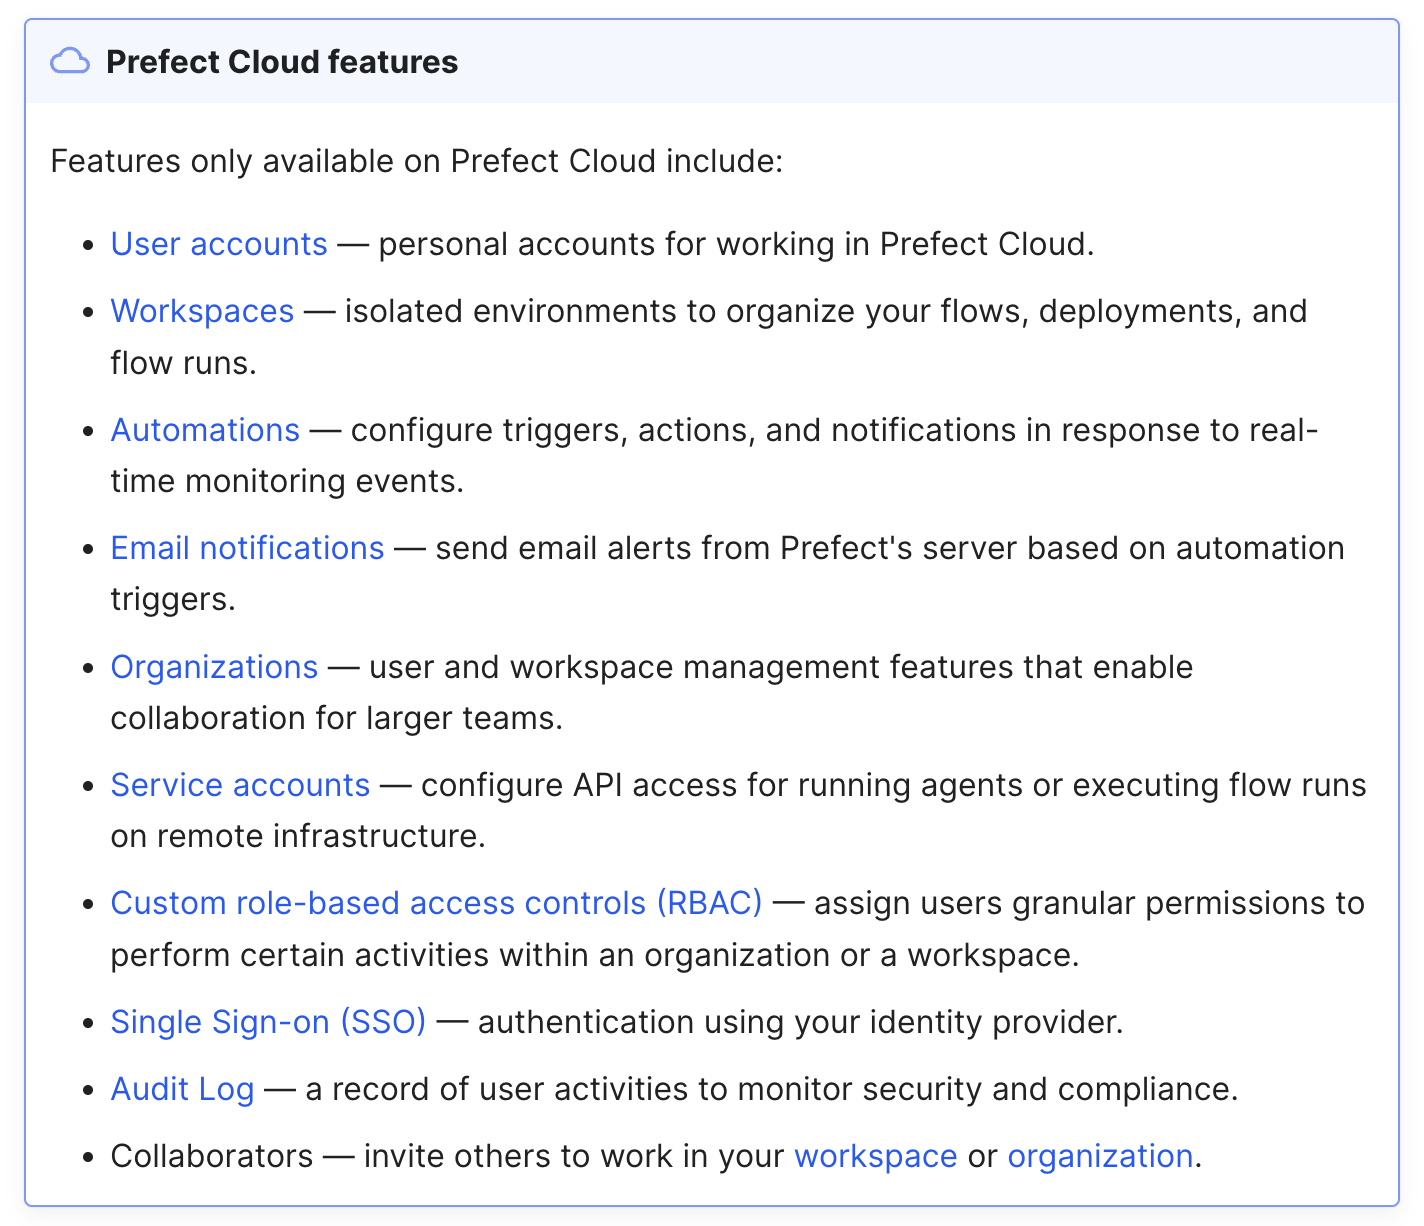
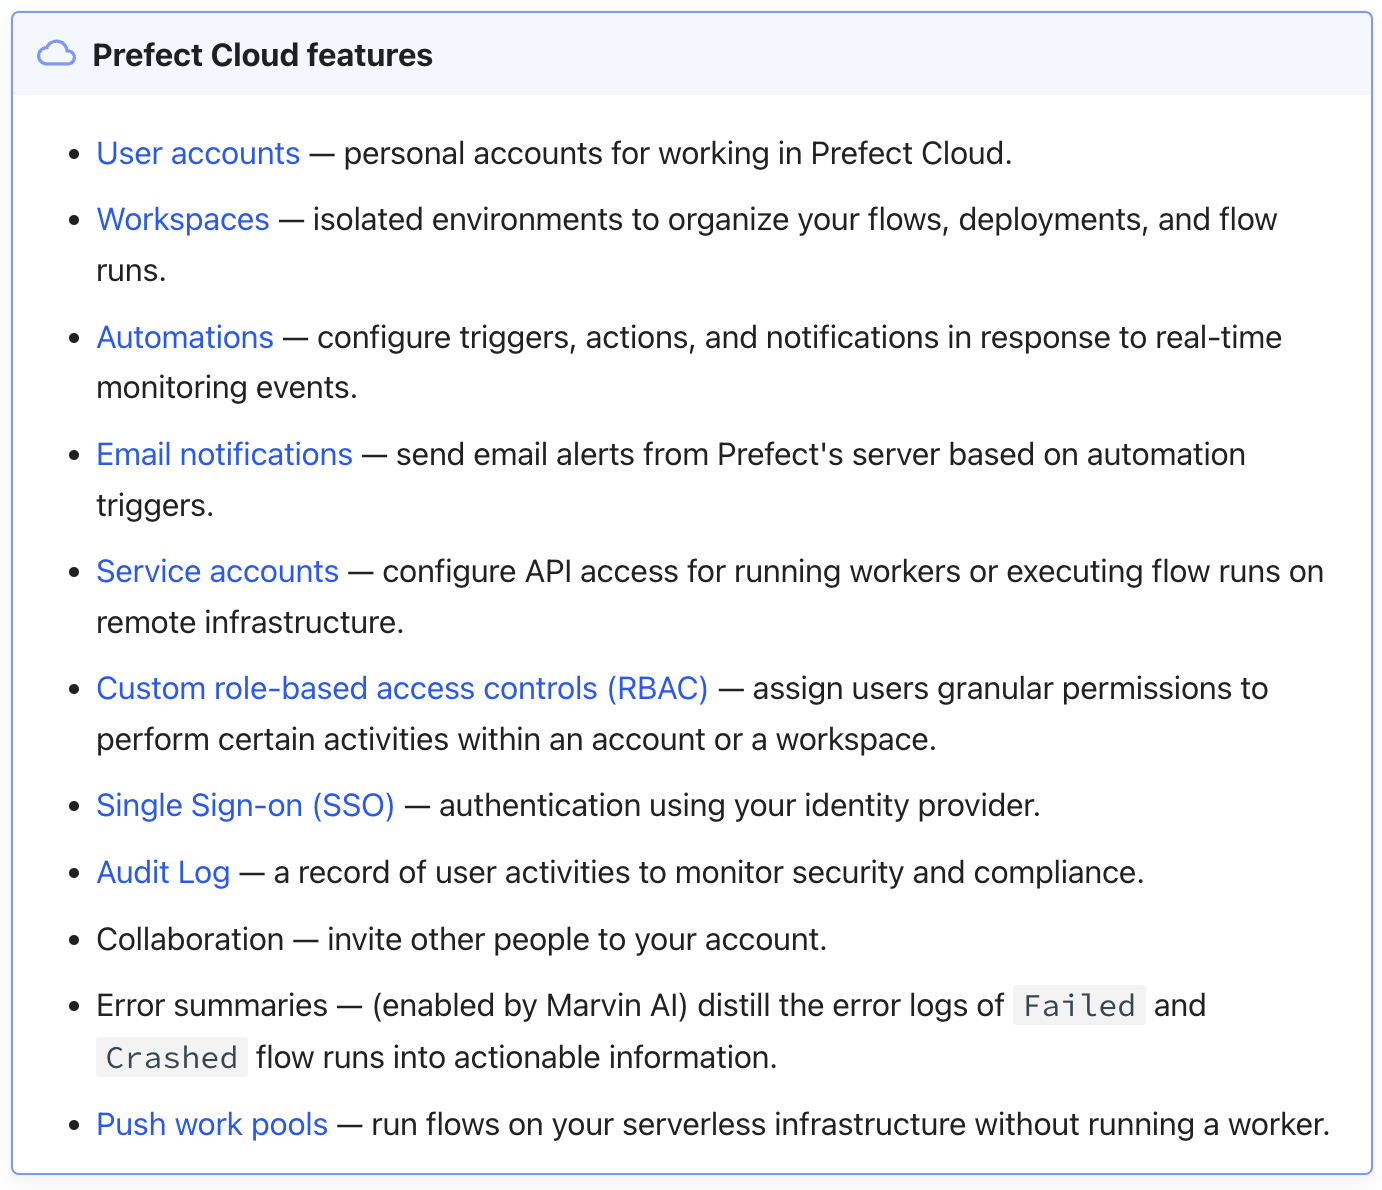
First batch

Changed region(s): [[0.0, 0.0, 0.9957, 0.995], [0.8401, 0.1555, 0.9023, 0.2176]]

diff --git a/blog/2024-07-10-airflow-alternatives/index.md b/blog/2024-07-10-airflow-alternatives/index.md
@@ -1,0 +1,128 @@
+---
+slug: airflow-alternatives
+authors: [henricourdent]
+tags: ['Compare']
+description: 'A deep dive on open source alternatives to Apache Airflow: Luigi, Prefect, Dagster, Temporal, Kedro, Windmill, Mage AI, Kestra'
+image: ./placeholder.png
+---
+
+# 8 Alternatives to Airflow (Strengths and Use Cases)
+
+![Picture](./placeholder.png "Picture")
+
+<!--Words to use
+- open source
+- external systems
+- workflow management
+- orchestration tool
+- data pipeline
+- right tool
+- data engineering
+- job scheduling
+- data pipelines
+- data engineers
+- data scientists
+
+Prefect and Dagster might have a different infrastructure, but used for same purposes
+-->
+
+[Apache Airflow](https://airflow.apache.org/) is a data orchestration tool. It is used to build, schedule, and monitor workflows. Open source since its inception as a project at Airbnb in 2014, Airflow has an active community and is a leading authority in the field of job orchestration.
+
+However, if you have reached this page, it's because Airflow has limitations and modern platforms are better equipped to handle Airflow's tasks, offering a simpler and more complete experience.
+
+This article aims to list 8 open-source alternatives to Airflow: Luigi, Prefect, Dagster, Temporal, Kedro, Windmill, Mage AI, Kestra.
+
+These job orchestration tools will be ranked in order of decreasing GitHub stars. This ranking method is far from perfect, but a mathematical criterion is beneficial in the subjective world of comparison.
+
+Before we begin, the first thing is to categorize the major aspects we will discuss:
+- **Target users**: for which professions the platform was designed.
+- **Ecosystem**: nonprofit project or platform monetized by a private company.
+- **Use cases**: typical cases for which the platform is a good fit.
+- **Performance**: a few months ago at Windmill, we conducted a performance benchmark for some of these tools.
+
+The rest of the criteria will come from our testing of each platform and user reviews.
+
+## Airflow
+
+Apache Airflow is a versatile data orchestration tool that excels in automating, scheduling, and monitoring complex workflows. Designed to structure tasks as [directed acyclic graphs](https://en.wikipedia.org/wiki/Directed_acyclic_graph) (DAGs), it enables workflow management, ensuring dependencies are respected and tasks are executed in sequence. The tool is designed to manage data pipelines. According to a [survey conducted by Airflow](https://airflow.apache.org/blog/airflow-survey-2022/), 54% of its users are Data Engineers and 12% are Developers.
+
+Airflow is widely used ([forked 13.8k times](https://github.com/apache/airflow) at the time of writing) across various industries thanks to its robust API and developed ecosystem (documentation, tutorials). This is where Airflow's strength lies: the status quo. You will more easily find engineers with specific experience in the software, or users who have encountered the same problem as you.
+
+However, Airflow is a complex tool, particularly in a production environment, it will require a minimum knowledge of devops and engineering systems. Its Python-first approach limits its versatility, and its user experience might make you feel like you are using a tool made in 2005, complicating the management of your workflow versions, permissions, or security.
+
+In terms of performance, Airflow is by far the slowest tool we have [benchmarked](/docs/misc/benchmarks/competitors), taking 56 seconds to complete 40 lightweight tasks.
+
+At last, it's a community-driven project, so you'll have the advantages and disadvantages: the same support as everyone else, no prioritisation of your issues.
+
+Airflow is a great tool, but with the advent of more modern solutions (see below), the main reason to use Airflow is due to legacy issues and sunk costs.
+
+## Luigi
+
+[Luigi](https://github.com/spotify/luigi) is very similar to Airflow. It is project developed by Spotify and open sourced in [2012](https://github.com/spotify/luigi?tab=readme-ov-file#authors). It is a Python module that helps build complex pipelines of batch jobs. It handles dependency resolution, workflow management, and visualization. Luigi uses DAGs and allows for the visualization of your data pipelines.
+
+Luigi enables you to create workflows, define tasks, and manage their dependencies, then execute the tasks via a central scheduler before monitoring everything through a web-based interface.
+
+There's no need to go too far; for similar strengths, Luigi has more weaknesses Airflow: a less active community, a narrower ecosystem, a more cumbersome UX, and performance issues.
+
+## Prefect
+
+[Prefect](https://www.prefect.io/) is a typical example of what a modern alternative to Airflow (and Luigi) looks like. Prefect is a workflow orchestration framework for building data pipelines. With a Python-first approach, Prefect is geared towards Data Engineers.
+
+The main advantage of Prefect over Airflow is the intuitiveness of the platform: Prefect is devilishly simple and onboarding is easily accomplished. Besides that, you can expect the [same features](https://www.prefect.io/prefect-vs-airflow) as Airflow (cron-based scheduling, retries, etc.)
+
+Prefect also goes further than Airflow in monitoring your tasks, but it's important to note that Prefect's [monitoring](/docs/compared_to/prefect#observability-and-monitoring) is done through a cloud platform that requires subscription. Many of the features necessary for its proper functioning are only available under [Prefect Cloud](https://docs.prefect.io/latest/cloud/):
+
+![Prefect cloud features](../../docs/assets/compared_to/prefect_cloud_features.png 'Prefect cloud features')
+
+In terms of performance, Prefect is the second slowest job orchestrator we have [benchmarked](/docs/misc/benchmarks/competitors) (alongside Airflow, Temporal, and Windmill) but it is much faster than Airflow and closer to the best-in-class (taking 4.872 seconds to complete 40 lightweight tasks, compared to 56 for Airflow and 2.429 for Windmill Dedicated worker).
+
+To learn more about Prefect, you can check out our [comparison between Prefect and Windmill](/docs/compared_to/prefect).
+
+## Dagster
+
+[Dagster](https://dagster.io/) is an open-source data orchestrator designed for building, running, and observing data pipelines. Unlike Airflow, which primarily focuses on scheduling and executing predefined workflows, Dagster introduces a stronger emphasis on development workflows, testing, and maintenance of data pipelines. This is achieved through a [type system](https://docs.dagster.io/concepts/types) that validates data as it moves between tasks, improving reliability and error handling.
+
+Dagster distinguishes itself from Airflow by embracing a declarative, asset-based approach to orchestration, focusing on the outputs like tables and models, rather than just tasks
+
+For developers, Dagster offers a smooth experience, facilitating easy transitions between different environments and managing data assets more effectively. Additionally, Dagster is optimized for cloud and container environments, enabling more efficient dependency isolation and infrastructure management compared to Airflow's often cumbersome setup. At last, Dagster uses a stable gRPC interface for operational stability, allowing configurations through containers that encapsulate jobs and assets, enhancing scalability and maintainability. In contrast, Airflow directly evaluates Python files, which can lead to scalability and stability issues as workflow complexity increases.
+
+If we were to compare Dagster with Prefect, perhaps Dagster is a bit more focused on Data Engineers, while Prefect is also suitable for developers. Lastly, we have [read](https://www.reddit.com/r/dataengineering/comments/1cxyvqk/airflow_vs_dagster_vs_prefect_vs/) several times that the community finds Prefect's documentation to be lagging behind that of Dagster. If you want to compare Dagster to Prefect, you can check out this article from [Dagster](https://dagster.io/vs/dagster-vs-prefect), or this one from [Prefect](https://www.prefect.io/prefect-vs-dagster).
+
+## Temporal
+
+With Temporal, you move into the realm of developers, moving away from the domain strictly reserved for data engineers. Temporal is a runtime that aims to ensure the durable execution of your application code, notably through fault tolerance (Temporal promises to "reduce failure by 10-100x").
+
+Compared to Airflow and the tools mentioned above, Temporal's major differentiation is that it targets developers. This is primarily reflected in:
+- Polyglot: you are no longer limited to Python (supports Go, Java, Python, TypeScript, php, .NET).
+- More versatility in use cases, but this means you may sometimes need to code the specifics of your tools (data connectors, notifications, etc.) that you would have had with Dagster or Prefect.
+- The simplicity of using a single tool, and avoiding the multiplication of specialized tools with their own onboarding, etc.
+
+Managing deployments is significantly [easier](https://community.temporal.io/t/what-are-the-pros-and-cons-of-temporal-with-respect-to-prefect/5671/3) for Temporal Workflows compared to Airflow DAGs. In Temporal, Workflows and Activities are packaged within the Worker, there can be multiple of those. This allows for greater flexibility and isolation between projects. In contrast, Airflow supports only one type of worker. Consequently, if multiple projects use the same Airflow deployment, they cannot have conflicting dependencies, as this would lead to issues.
+
+One notable thing about Temporal is that it is a for-profit company (compared to Airflow or Luigi) and large in size (compared to Prefect, Dagster, or Windmill) with over [200 employees](https://temporal.io/about).
+
+In terms of performance, Temporal performs very well according to [benchmarks](/docs/misc/benchmarks/competitors) conducted by Windmill. Temporal ranks as the second fastest workflow engine, behind Windmill's [dedicated worker](/docs/core_concepts/worker_groups#dedicated-workers--high-throughput) mode.
+
+## Kedro
+
+With [Kedro](https://github.com/kedro-org/kedro), we have another open tool sourced by a large company (McKinsey's QuantumBlack in [2019](https://medium.com/quantumblack/introducing-kedro-the-open-source-library-for-production-ready-machine-learning-code-d1c6d26ce2cf)) and is now maintained as a non-profit.
+
+Unlike Airflow and the previously mentioned tools, Kedro targets a different audience: data scientists, specifically for creating machine learning workflows.
+
+Kedro facilitates data versioning, supports incremental computations, and automates the resolution of your pipeline's execution order. When used alongside [Kedro-Viz](https://github.com/kedro-org/kedro-viz), it offers a comprehensive view of your evolving data and machine-learning workflows. This combination provides clear data lineage, monitors machine-learning experiments, and simplifies communication with ops teams by visually mapping out the processes. What Kedro offers is to have usable data science code while spending as little time as possible on the infrastructure part.
+
+Asked if it's an orchestrator, Kedro replies:
+
+> "Orchestrators like Airflow, Luigi, Prefect, Dagster, Flyte, and Kubeflow focus on running, scheduling, and monitoring pipelines. Meanwhile, Kedro is all about the process of authoring pipelines. So, if you're looking for a solution that takes care of questions like "What time will this task run?" or "How do I manage my compute?", Kedro might not be what you need." <br/>[...]<br/> Kedro provides a set of deployment guidelines for using orchestrators as deployment targets. If you're looking for a partner to help you production-ready data science code, Kedro is the perfect solution for you."
+
+## Windmill
+
+Blabla
+
+## Mage AI
+
+Blabla
+
+## Kestra
+
+Blabla

diff --git a/blog/2024-06-28-edit-crontab/index.md b/blog/2024-06-28-edit-crontab/index.md
@@ -166,7 +166,7 @@ In addition to scripts and flows, Windmill also allows [scheduling of app report
 
 ## What is Windmill?
 
-Windmill is a fast, [open-source](https://github.com/windmill-labs/windmill) workflow engine and developer platform. It's an alternative to the likes of Retool, Superblocks, n8n, Airflow, and Temporal, designed to **build comprehensive internal tools** (endpoints, workflows, UIs). It supports coding in TypeScript, Python, Go, PHP, Bash, SQL, or any Docker image, alongside intuitive low-code builders, featuring:
+Windmill is a fast, [open-source](https://github.com/windmill-labs/windmill) workflow engine and developer platform. It's an alternative to the likes of Retool, Superblocks, n8n, Airflow, Prefect, and Temporal, designed to **build comprehensive internal tools** (endpoints, workflows, UIs). It supports coding in TypeScript, Python, Go, PHP, Bash, SQL, or any Docker image, alongside intuitive low-code builders, featuring:
 
 -  An [execution runtime](/docs/script_editor) for scalable, low-latency function execution across a worker fleet.
 -  An [orchestrator](/docs/flows/flow_editor) for assembling these functions into efficient, low-latency flows, using either a low-code builder or YAML.

diff --git a/blog/2023-08-10-supabase-partnership/index.md b/blog/2023-08-10-supabase-partnership/index.md
@@ -20,7 +20,7 @@ This week, Supabase is celebrating their [8th Launch Week](https://supabase.com/
 
 ## Windmill for internal tools
 
-Windmill is an [open-source](https://github.com/windmill-labs/windmill), blazing fast and scalable alternative to Retool, Airplane, Superblocks, n8n, Airflow, Temporal to build all your internal tools (endpoints, workflows, UIs) through the combination of code (in TypeScript, Python, Go, PHP, Bash, SQL or any docker image) and low code builders. It embeds all-in-one:
+Windmill is an [open-source](https://github.com/windmill-labs/windmill), blazing fast and scalable alternative to Retool, Airplane, Superblocks, n8n, Airflow, Prefect, Temporal to build all your internal tools (endpoints, workflows, UIs) through the combination of code (in TypeScript, Python, Go, PHP, Bash, SQL or any docker image) and low code builders. It embeds all-in-one:
 
 - an **execution runtime** to execute functions at scale with low-latency and no overhead on a fleet of workers
 - an **orchestrator** to compose functions into powerful flows at low-latency built with a low-code builder (or yaml if that's your thing)
